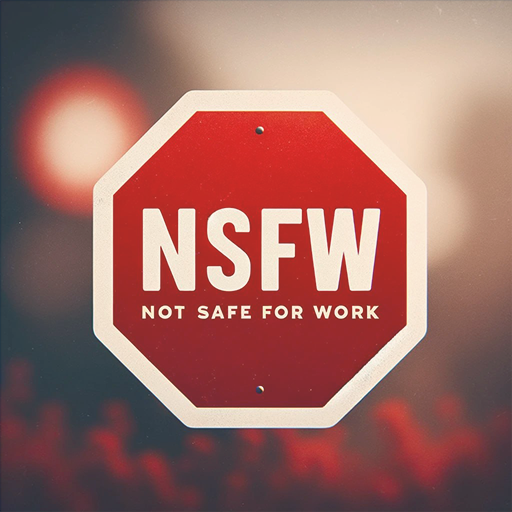
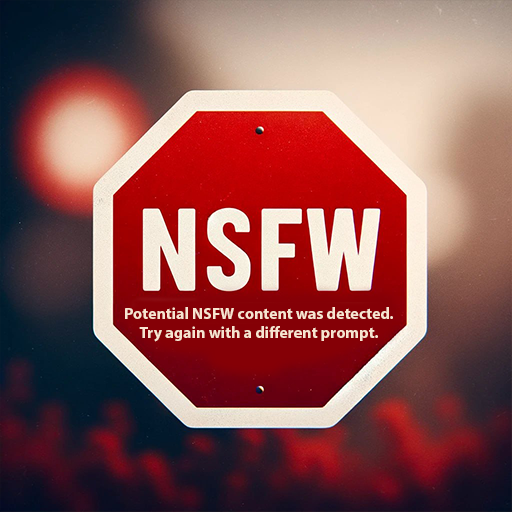
replace nsfw image, overlay 0.91

diff --git a/scripts/censor.py b/scripts/censor.py
@@ -70,7 +70,7 @@ def censor_batch(x, safety_checker_adj: float):
                 image_np = (image_np * 255).astype(np.uint8)
                 background = to_pil(image_np)
 
-                new_img = Image.blend(background, overlay, 0.9)
+                new_img = Image.blend(background, overlay, 0.91)
 
                 new_img = (np.array(new_img) / 255.0).astype("float32")
                 new_img = torch.from_numpy(new_img)
